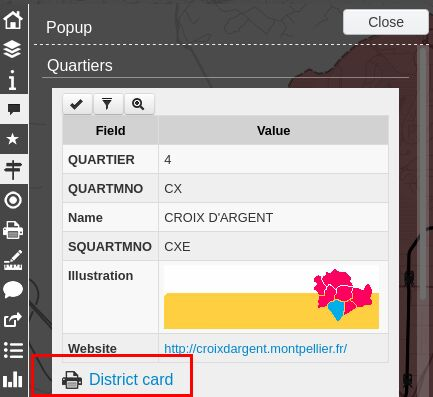
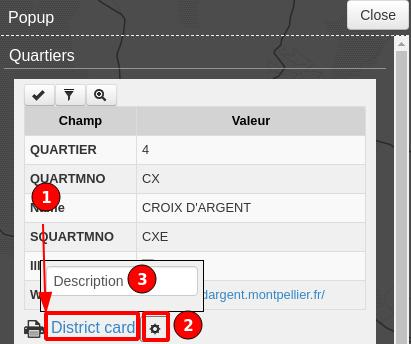
Atlas custom fields definition

diff --git a/source/publish/configuration/popup.rst b/source/publish/configuration/popup.rst
@@ -220,7 +220,8 @@ This button will be visible in the feature's popup at the top of related objects
 Link to a PDF QGIS layout
 _________________________
 
-Every feature of a layer with an atlas configured will have a link at the end of its popup which open a PDF for this specific feature, using the QGIS Atlas layout.
+Every feature of a layer with an atlas configured will have a link (1) at the end of its popup which open a PDF for this specific feature, using the QGIS Atlas layout.
+If the layout contains custom text fields, a button (2) will be displayed. Clicking this button, allows you to type values for those custom text fields before printing.
 To enable this feature, you need a QGIS Layout with atlas enabled on that layer **and** to download the `AtlasPrint` QGIS Server plugin on GitHub : https://github.com/3liz/qgis-atlasprint
 
 .. image:: /images/feature-popup-atlas.jpg
